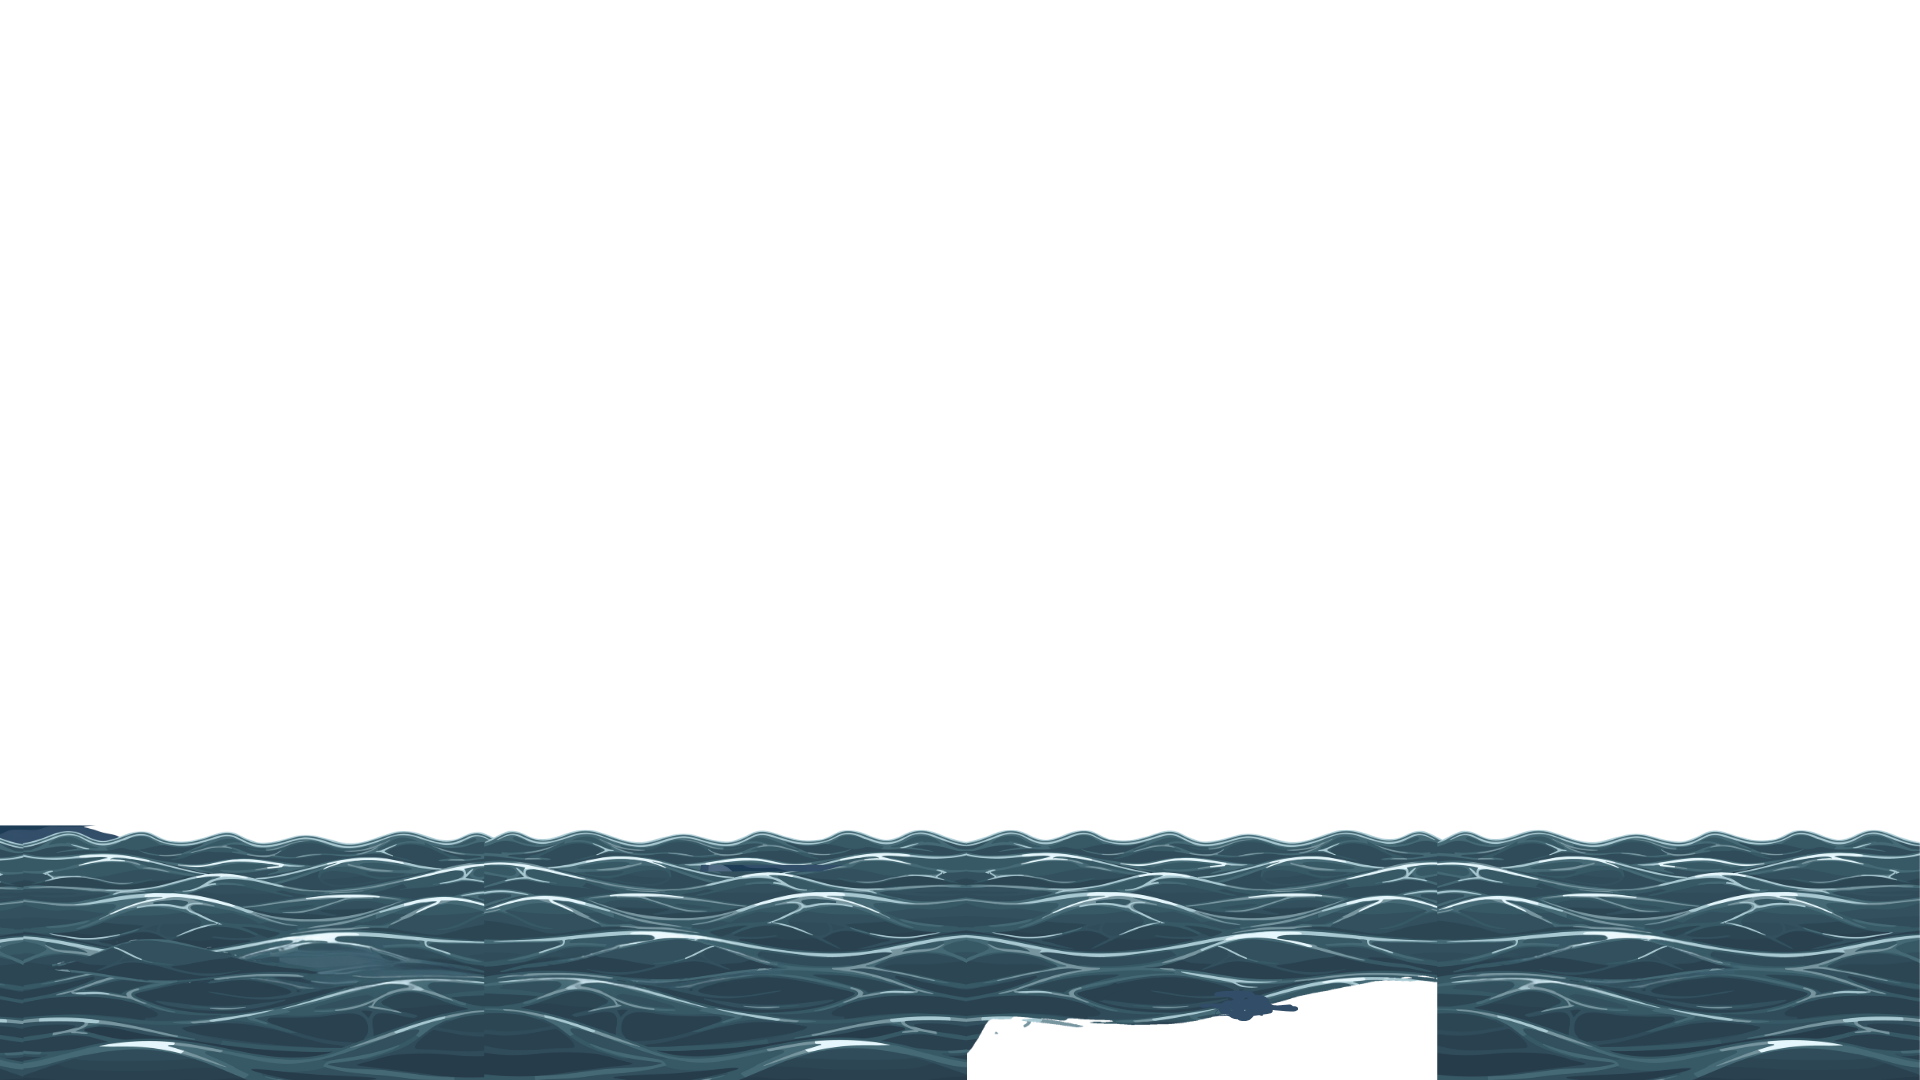
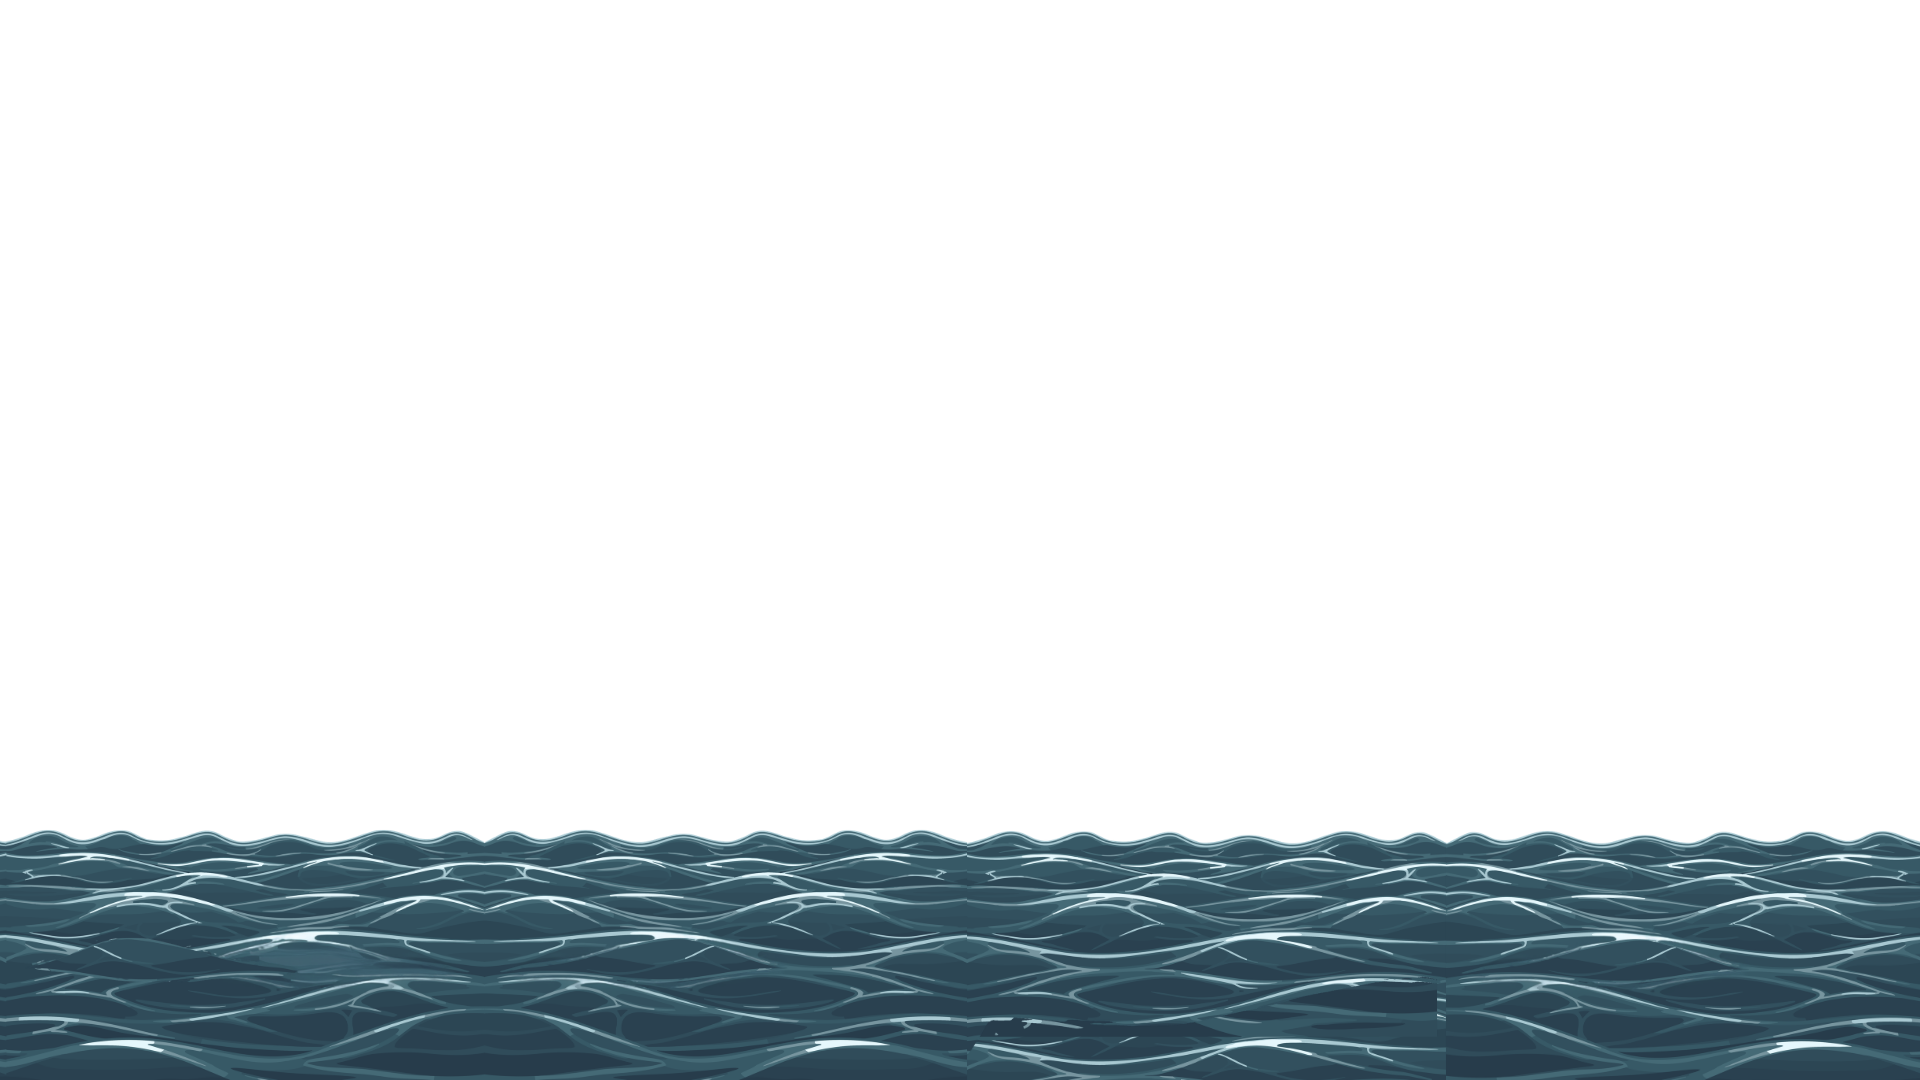
changing the img

Changed region(s): [[0.5, 0.7639, 1.0, 1.0], [0.0, 0.7639, 0.25, 1.0], [0.375, 0.7944, 0.4062, 0.825]]

diff --git a/undersites/observatory.html b/undersites/observatory.html
@@ -12,9 +12,9 @@
   <div class="site-desktop">
    <div class="page-screenshot">
  <!--background-->
- <img src="../graphics/observatory/sterne sea.png" style="position:absolute; display:block; pointer-events:none; z-index: 3; bottom:0vh; left:0; width: 100vw;object-fit: fill;">
+ <img src="../graphics/observatory/sterne sea.png" style="position:absolute; display:block; pointer-events:none; z-index: 13; bottom:0vh; left:0; width: 100vw;object-fit: fill;">
  <img src="../graphics/observatory/sterne.png" style="position:absolute; pointer-events:none;z-index: 9; bottom:0vh;">
- <img src="../graphics/observatory/sterne on top.png.png" style="position:absolute; pointer-events:none;z-index: 10; bottom:0vh;">
+ <img src="../graphics/observatory/sterne on top.png" style="position:absolute; pointer-events:none;z-index: 999; bottom:0vh;">
 
    
    <!--home button-->
@@ -37,7 +37,7 @@
 
     <!--flashlight styling -->
      <div id="rock_lamp" style="position:absolute; margin:0; padding:0;bottom:-0.3vh; left: 0; width: 14vw; height: 35vh; ">
-    <img src="../graphics/observatory/sterne rock.png" style="position:absolute; pointer-events:none; z-index: 10; bottom:0; margin:0; left:0; width:auto; height:300%;">
+    <img src="../graphics/observatory/sterne rock.png" style="position:absolute; pointer-events:none; z-index: 14; bottom:0; margin:0; left:0; width:auto; height:300%;">
      <img id="taschenlampe" src="../graphics/Flashlight.png" title="Click me and see what happens (or press L/l)!"  style="width: 25%; height: auto; position: absolute; bottom: 95%; left: 55%;  z-index: 9999; pointer-events: all !important; user-select: none;">
     </div>
   </div>
